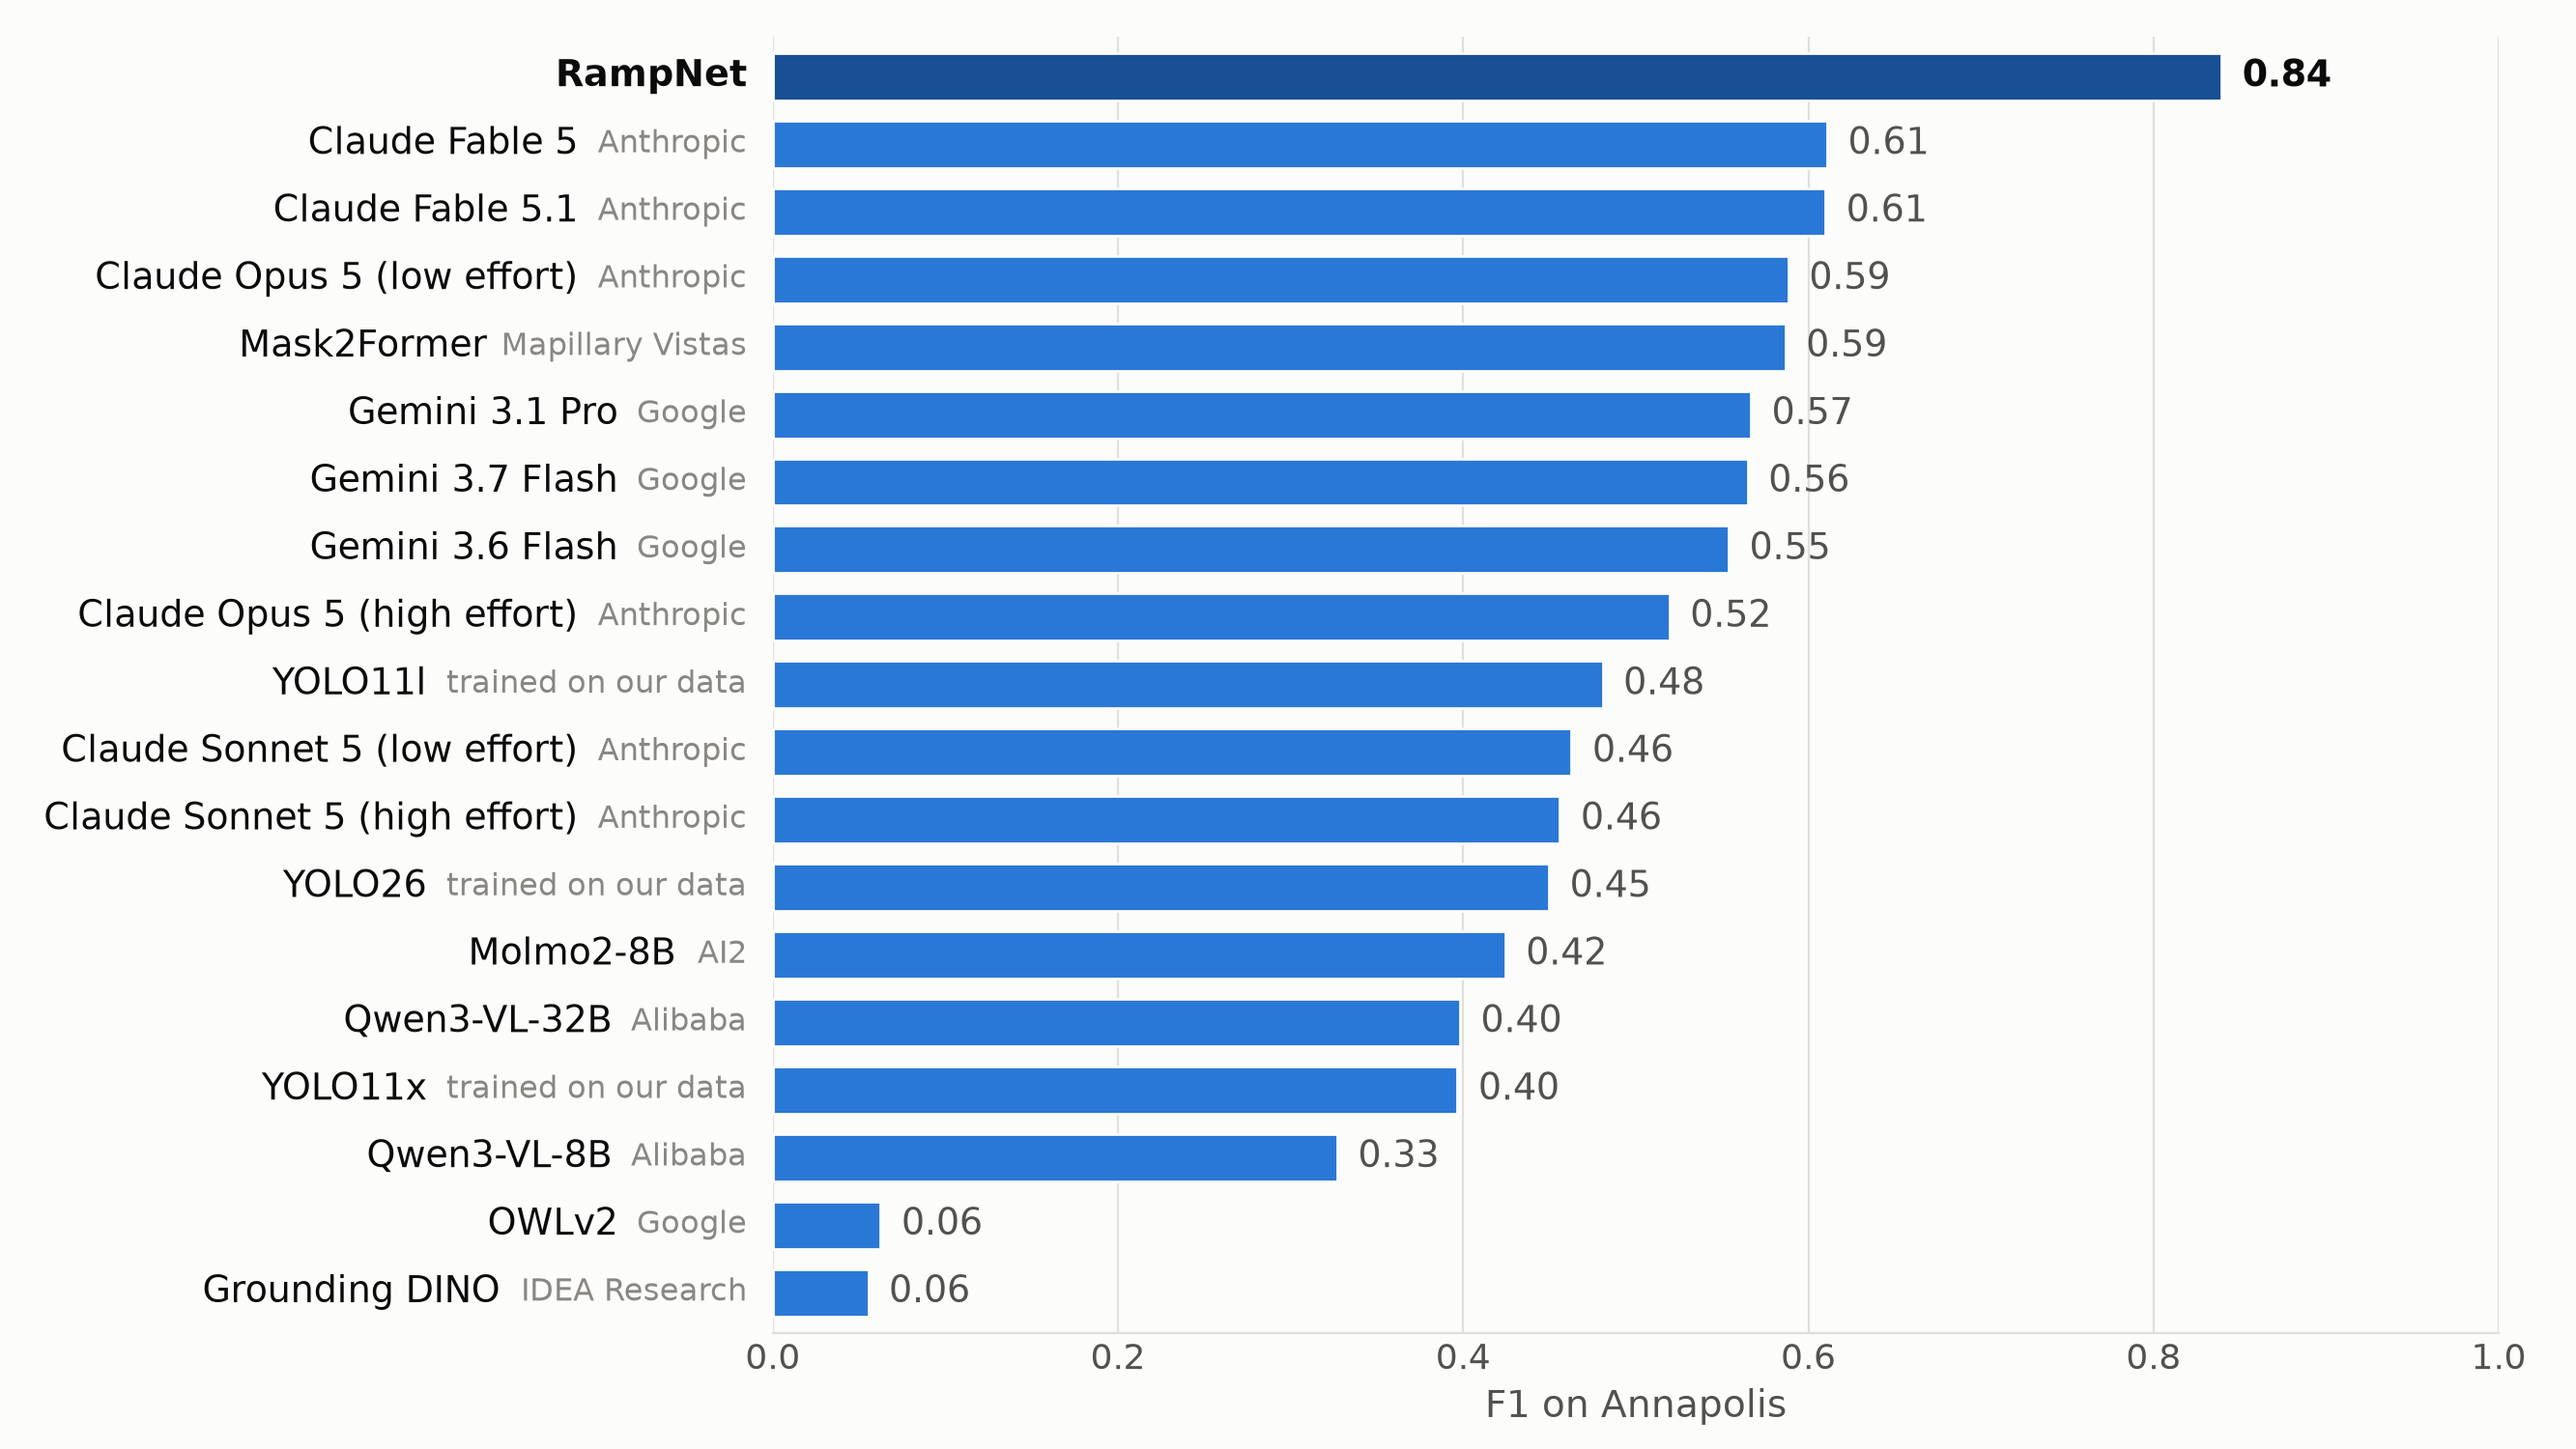
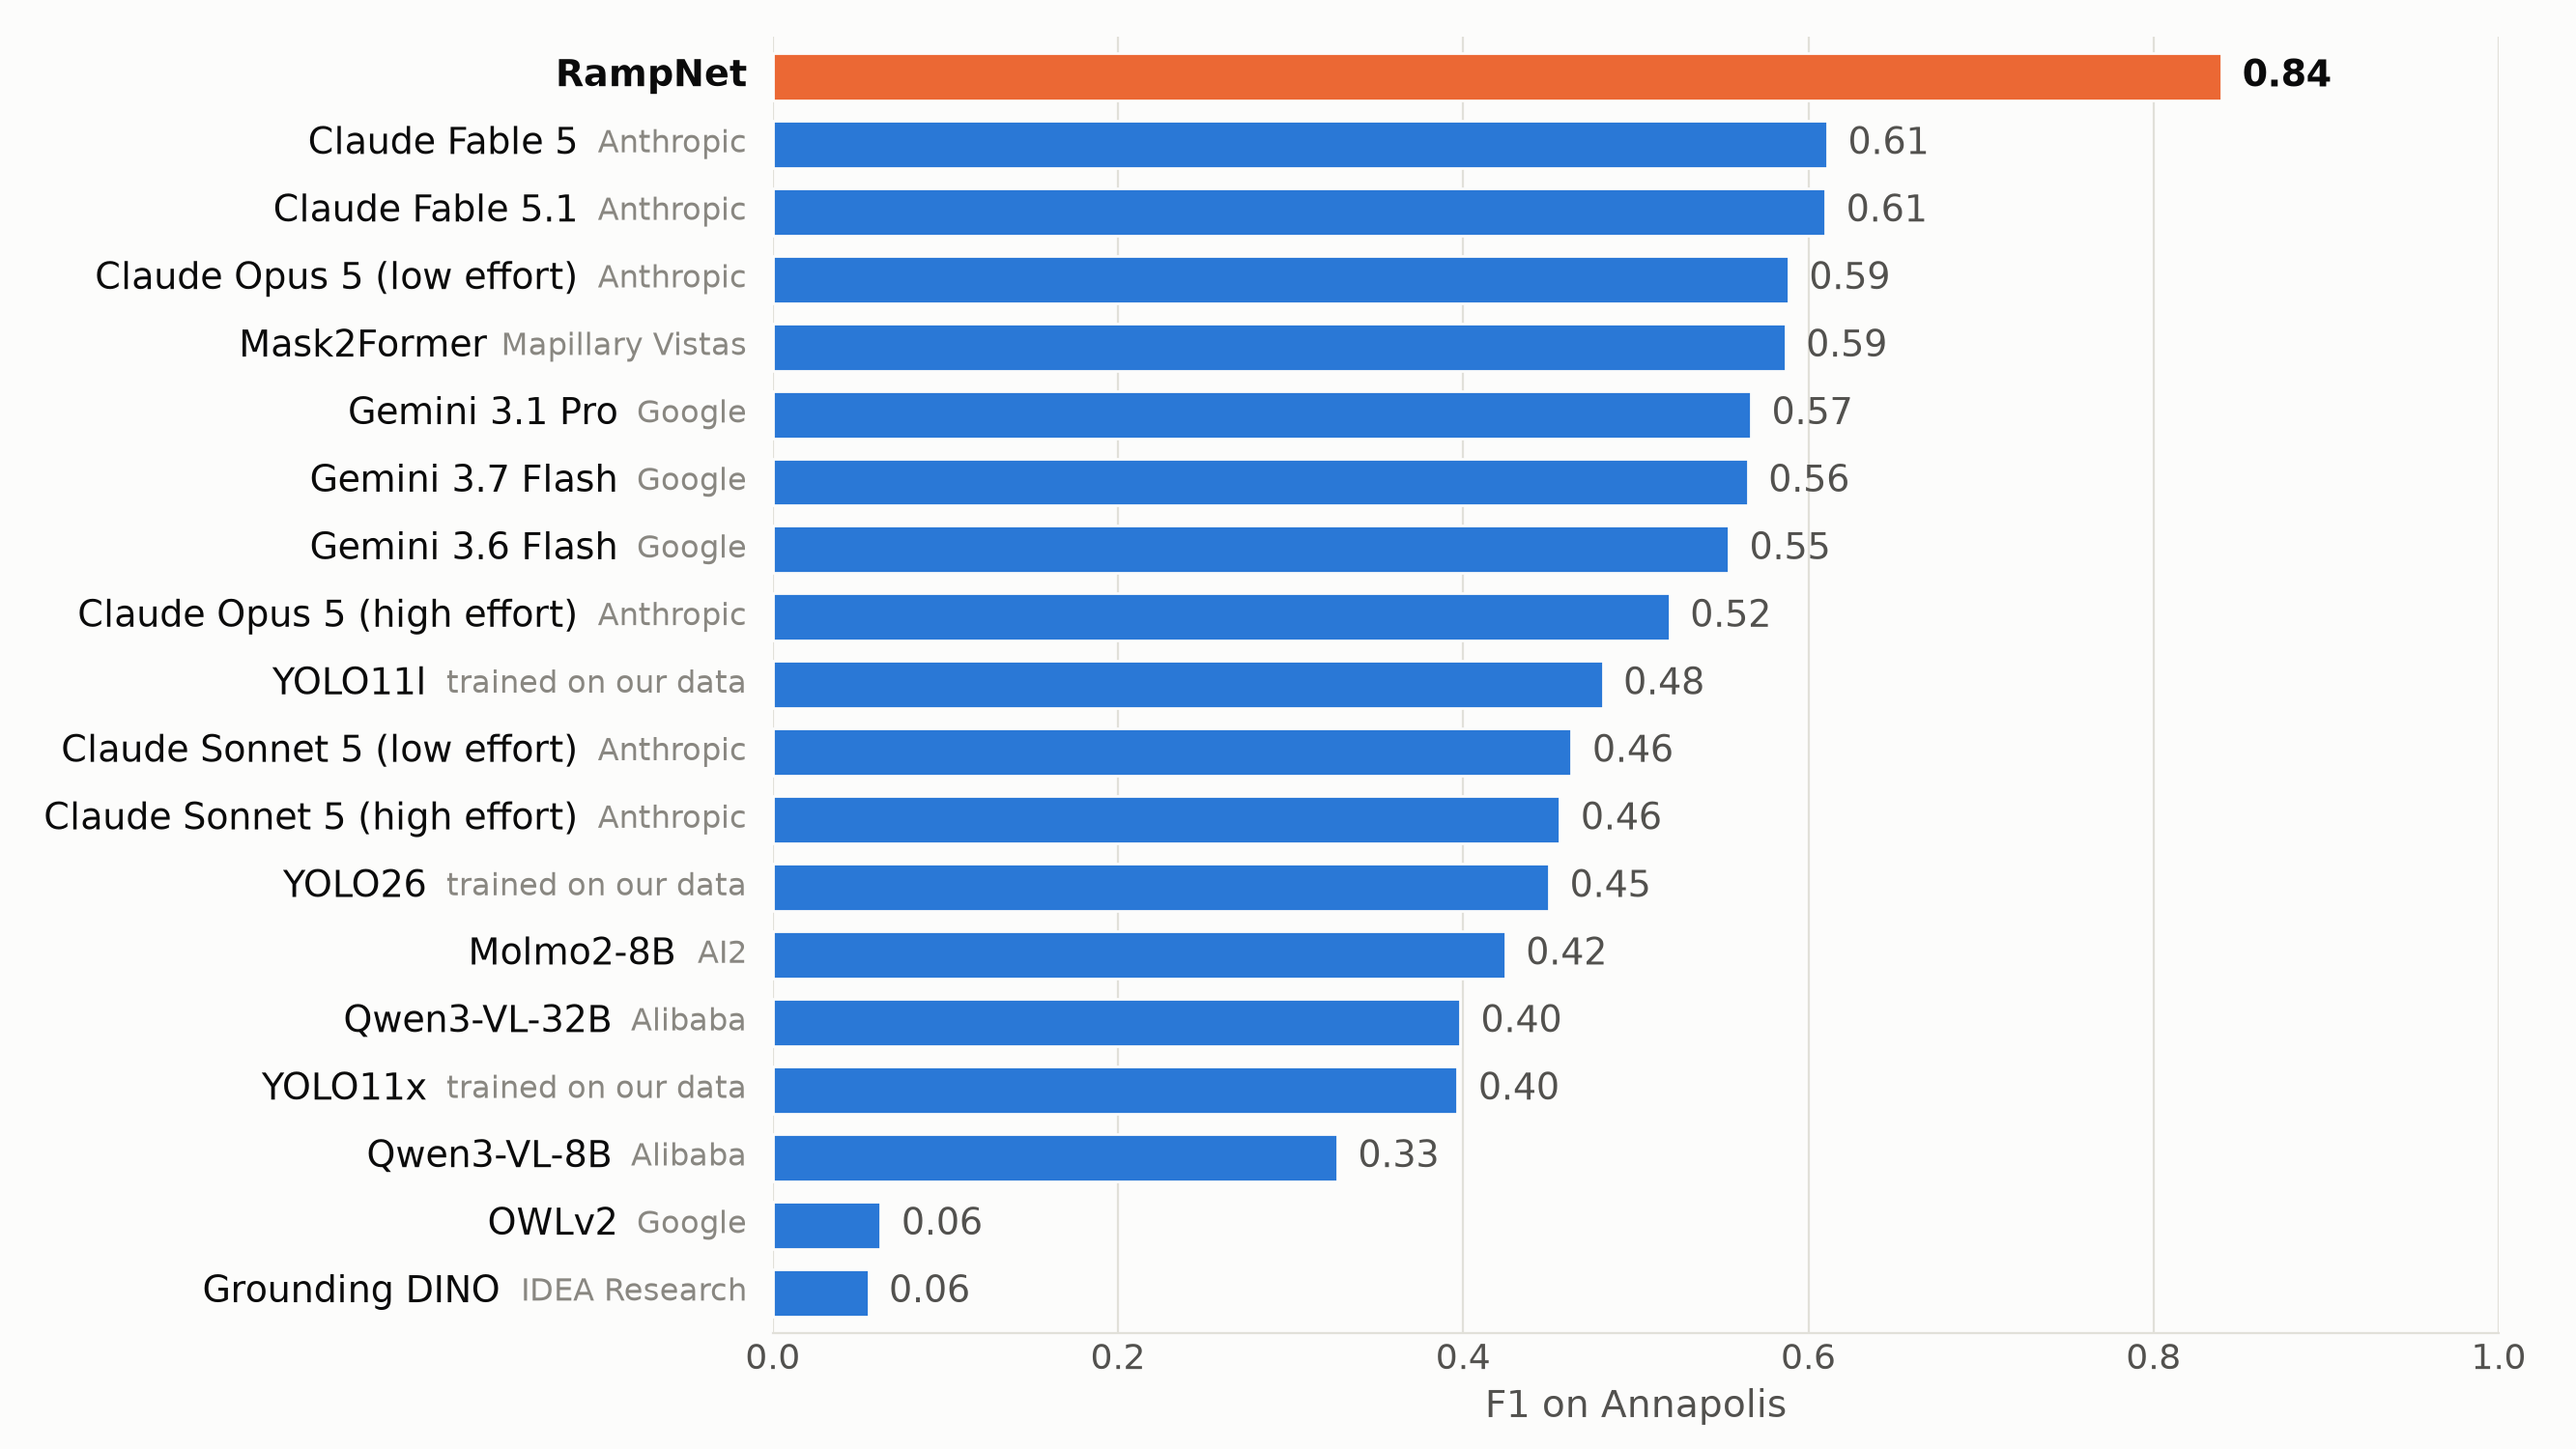
UChicago figures: blue variant with RampNet in orange; no-maker variant
Claude-Session: https://claude.ai/code/session_01X3eD3hDNQe6ZedrctnGGCN

Changed region(s): [[0.2802, 0.0307, 0.8717, 0.092]]

diff --git a/scripts/talks/uchicago_2026_figures.py b/scripts/talks/uchicago_2026_figures.py
@@ -988,11 +988,13 @@ MINIMAL_COMPACT_DROP = {"claude-fable-5-effort-low-anthropic", "claude-opus-5-ef
                         "claude-sonnet-5-effort-high"}
 
 
-def fig_comparison_city_minimal(board, plt, split="annapolis", compact=False, mono=False):
+def fig_comparison_city_minimal(board, plt, split="annapolis", compact=False, mono=False,
+                                no_maker=False):
     """fig_comparison_city with the words taken out: for a slide whose title says the rest.
 
-    ``mono``: every challenger bar one blue and RampNet a deeper blue, no legend; the maker
-    text carries the grouping on its own."""
+    ``mono``: every challenger bar one blue and RampNet orange, so it pops on a slide; no
+    legend, the maker text carries the grouping on its own. ``no_maker`` drops the company
+    names too, keeping only "trained on our data" (a fact about the model, not a company)."""
     from matplotlib.patches import Patch
 
     colour = {g: c for g, c, _ in MINIMAL_GROUPS}
@@ -1013,7 +1015,7 @@ def fig_comparison_city_minimal(board, plt, split="annapolis", compact=False, mo
     fig.subplots_adjust(left=0.30, right=0.97, top=0.975, bottom=0.08)
     groups = [label(m)[2] for _, m in rows]
     if mono:
-        fills = [BLUE_DEEP if m == "rampnet" else BLUE for _, m in rows]
+        fills = [ORANGE if m == "rampnet" else BLUE for _, m in rows]
     else:
         fills = [colour[g] for g in groups]
     bars = ax.barh(range(n), [f for f, _ in rows], height=0.7, zorder=3,
@@ -1032,13 +1034,16 @@ def fig_comparison_city_minimal(board, plt, split="annapolis", compact=False, mo
     inv = ax.transAxes.inverted()
     for i, (_, m) in enumerate(rows):
         name, maker, _ = label(m)
+        if no_maker and maker != "trained on our data":
+            maker = ""
         ref = m == "rampnet"
+        bare = ref or not maker            # no maker text: the name sits at the axis
         y = ax.transData.transform((0, i))[1]
         y_ax = inv.transform((0, y))[1]
-        t = ax.text(-0.015, y_ax, "" if ref else maker, transform=ax.transAxes, ha="right",
+        t = ax.text(-0.015, y_ax, "" if bare else maker, transform=ax.transAxes, ha="right",
                     va="center", fontsize=fs - 2, color=INK_MUTED)
-        x0 = inv.transform((t.get_window_extent(renderer).x0, 0))[0] if not ref else -0.015
-        ax.text(x0 - (0.012 if not ref else 0), y_ax, name, transform=ax.transAxes, ha="right",
+        x0 = inv.transform((t.get_window_extent(renderer).x0, 0))[0] if not bare else -0.015
+        ax.text(x0 - (0.012 if not bare else 0), y_ax, name, transform=ax.transAxes, ha="right",
                 va="center", fontsize=fs, color=INK, fontweight="bold" if ref else "normal")
     if not mono:
         # Stacked in the empty lower right (short bars there), on a surface-coloured box so the
@@ -1049,7 +1054,8 @@ def fig_comparison_city_minimal(board, plt, split="annapolis", compact=False, mo
                         handlelength=1.2, handleheight=1.0, labelspacing=0.6,
                         borderaxespad=0.6, labelcolor=INK_SECONDARY)
         leg.set_zorder(5)
-    suffix = ("_compact" if compact else "") + ("_blue" if mono else "")
+    suffix = ("_compact" if compact else "") + ("_blue" if mono else "") + \
+        ("_no_maker" if no_maker else "")
     _save(fig, f"comparison_f1_{split}_minimal{suffix}.png")
     plt.close(fig)
 
@@ -1171,6 +1177,8 @@ FIGURES = {
     "comparison_annapolis_minimal": lambda board, plt, _: fig_comparison_city_minimal(board, plt),
     "comparison_annapolis_minimal_blue":
         lambda board, plt, _: fig_comparison_city_minimal(board, plt, mono=True),
+    "comparison_annapolis_minimal_blue_no_maker":
+        lambda board, plt, _: fig_comparison_city_minimal(board, plt, mono=True, no_maker=True),
     "comparison_annapolis_minimal_compact":
         lambda board, plt, _: fig_comparison_city_minimal(board, plt, compact=True),
     "transfer": lambda board, plt, _: fig_transfer(board, plt),

diff --git a/docs/talks/uchicago_2026/README.md b/docs/talks/uchicago_2026/README.md
@@ -130,7 +130,7 @@ including the Claude Fable 5 / 5.1, Opus 5 and Sonnet 5 legs).
 title: no title or footnote, each row "model  maker", bars coloured RampNet / frontier (Anthropic,
 Google) / open (AI2, Alibaba) / detectors and segmenters (grey). `_minimal_compact.png` keeps one
 row per model: Fable 5.1 over Fable 5, and the better effort of Opus 5 and Sonnet 5 (low, both),
-so 16 rows. `_minimal_blue.png` drops the grouping: every challenger one blue, RampNet a deeper blue, no legend. The three hues are the reference palette's first three slots, which pass
+so 16 rows. `_minimal_blue.png` drops the grouping: every challenger one blue, RampNet orange so it pops, no legend; `_minimal_blue_no_maker.png` also drops the company names, keeping only "trained on our data" on the YOLO rows. The three hues are the reference palette's first three slots, which pass
 `validate_palette.js --pairs all`; a fourth hue fails CVD separation against blue.
 
 Why `manual_gold` is not in the pooled bar: the scoreboard holds it out as the in-distribution
@@ -262,7 +262,7 @@ Four SVGs (PowerPoint imports them as editable shapes) with PNG renders, from
 | `comparison_pr.png` | 4 | `analysis_out/scoreboard.json` (`--only comparison_pr`) |
 | `comparison_f1_with_gold.png` | 4 | `analysis_out/scoreboard.json` (`--only comparison_gold`) |
 | `comparison_f1_annapolis.png` | 4 | `analysis_out/scoreboard.json` (`--only comparison_annapolis`) |
-| `comparison_f1_annapolis_minimal{,_blue,_compact}.png` | 4 | `analysis_out/scoreboard.json` (`--only comparison_annapolis_minimal`, `_blue`, `_compact`) |
+| `comparison_f1_annapolis_minimal{,_blue,_blue_no_maker,_compact}.png` | 4 | `analysis_out/scoreboard.json` (`--only comparison_annapolis_minimal`, `_blue`, `_blue_no_maker`, `_compact`) |
 | `recall_by_distance.png` | 6 | `docs/detection_recall_analysis.md` §1–§2 (constants in the script) |
 | `timelapse/timelapse_*.jpg` | 8 | `timelapse/manifest_*.json`, `timelapse/heat_*.png` (GSV history via `uchicago_2026_timelapse.py fetch` + `infer`, GPU), Bend inventory |
 | `measure_chain.jpg` | 8 | `benchmark/richmond/{boxes.json,records.jsonl,panos/}`, `analysis_out/da3_calibration_101/rows_points.jsonl` (`--only measure`) |
